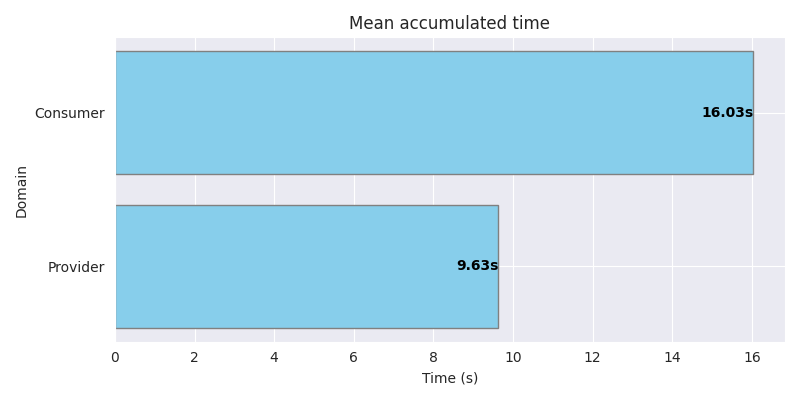
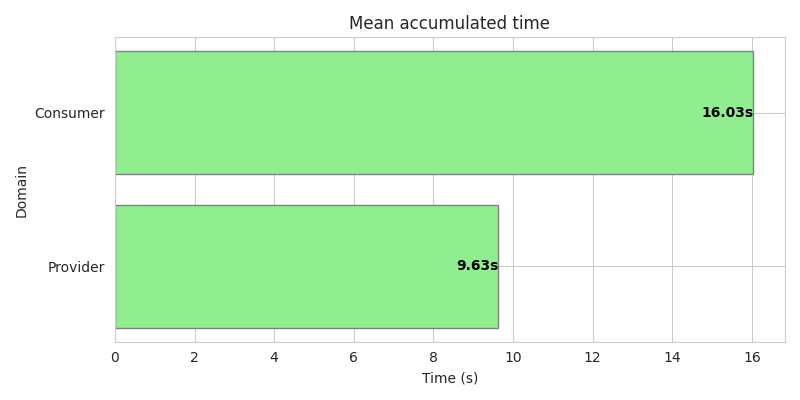
plots finished

diff --git a/experiments/ploting/plot_mean_std_v2.py b/experiments/ploting/plot_mean_std_v2.py
@@ -1,0 +1,77 @@
+import pandas as pd
+import numpy as np
+import os
+import matplotlib.pyplot as plt
+import seaborn as sns
+
+# Set the seaborn style for aesthetics
+sns.set_style("whitegrid")
+
+# Function to calculate durations and their mean, std for each step, including total duration
+def calculate_durations(directory):
+    steps_definitions = {
+        'Service Announced': ('service_announced', 'announce_received'),
+        'Bid Offered': ('bid_offer_sent', 'bid_offer_received'),
+        'Winner Choosen': ('winner_choosen', 'winner_received'),
+        'Service Deployment': ('deployment_start', 'deployment_finished'),
+        'Confirm Deployment': ('confirm_deployment_sent', 'confirm_deployment_received'),
+    }
+    times_data = {step: [] for step in steps_definitions}
+    times_data['Federation Completed'] = []  # Add total duration entry
+
+    # Process each file
+    for filename in os.listdir(directory):
+        filepath = os.path.join(directory, filename)
+        df = pd.read_csv(filepath)
+
+        total_start = df['timestamp'].iloc[0]  # Assume first timestamp is the start
+        total_end = df['timestamp'].iloc[-1]  # Assume last timestamp is the end
+        total_duration = total_end - total_start
+        times_data['Federation Completed'].append(total_duration)  # Add total duration
+
+        # Calculate durations for each step
+        for step, (start, end) in steps_definitions.items():
+            if start in df.step.values and end in df.step.values:
+                start_time = df.loc[df['step'] == start, 'timestamp'].values[0]
+                end_time = df.loc[df['step'] == end, 'timestamp'].values[0]
+                duration = end_time - start_time
+                times_data[step].append(duration)
+
+    # Calculate mean and std
+    stats_data = []
+    for step, durations in times_data.items():
+        mean_duration = np.mean(durations)
+        std_duration = np.std(durations)
+        stats_data.append({'Step': step, 'Mean Duration': mean_duration, 'Std Duration': std_duration})
+
+    return pd.DataFrame(stats_data)
+
+# Directory containing merged test results
+merged_dir = '../merged'
+
+# Calculate durations, mean, and std for each step
+times_df = calculate_durations(merged_dir)
+ordered_steps = ['Service Announced', 'Bid Offered', 'Winner Choosen', 'Service Deployment', 'Confirm Deployment', 'Federation Completed']
+times_df['Order'] = times_df['Step'].apply(lambda x: ordered_steps.index(x) if x in ordered_steps else len(ordered_steps))
+times_df = times_df.sort_values('Order', ascending=True)
+
+plt.figure(figsize=(12, 8))
+x_ticks = np.arange(len(ordered_steps))
+bar_colors = plt.cm.viridis(np.linspace(0.3, 0.9, len(ordered_steps)))  # Use a colormap for varied but harmonious colors
+
+for i, row in times_df.iterrows():
+    step = row['Step']
+    mean_duration = row['Mean Duration']
+    std_duration = row['Std Duration']
+    plt.bar(x_ticks[i], mean_duration, color=bar_colors[i], edgecolor='grey', yerr=std_duration, capsize=5, error_kw={'elinewidth':2, 'ecolor':'tomato'})
+    # Adjust text position to be above the standard deviation line and include error
+    text_position = mean_duration + std_duration + 0.05 * (mean_duration + std_duration)  # Slightly above the error bar
+    plt.text(x_ticks[i], text_position, f"{mean_duration:.2f}s ± {std_duration:.2f}", va='bottom', ha='center', color='black', fontweight='bold')
+
+plt.xticks(x_ticks, ordered_steps, rotation=45, ha='right')
+plt.ylabel('Time (s)')
+plt.xlabel('Phases')
+plt.title('Mean durations and standard deviation of each federation step')
+plt.tight_layout()
+plt.savefig('federation_events_mean_std_v2.png')
+plt.show()

diff --git a/experiments/ploting/plot_mean_std.py b/experiments/ploting/plot_mean_std.py
@@ -1,0 +1,68 @@
+import pandas as pd
+import numpy as np
+import os
+import matplotlib.pyplot as plt
+import seaborn as sns
+
+# Set the seaborn style for aesthetics
+sns.set_style("darkgrid")
+
+# Directory containing merged test results
+merged_dir = '../merged'
+times_data = []
+
+# Process each merged file
+for filename in os.listdir(merged_dir):
+    filepath = os.path.join(merged_dir, filename)
+    df = pd.read_csv(filepath)
+
+    # Capture start and end times for each step
+    steps_definitions = {
+        'Service Announced': ('service_announced', 'announce_received'),
+        'Bid Offered': ('bid_offer_sent', 'bid_offer_received'),
+        'Winner Choosen': ('winner_choosen', 'winner_received'),
+        'Service Deployment': ('deployment_start', 'deployment_finished'),
+        'Confirm Deployment': ('confirm_deployment_sent', 'confirm_deployment_received'),
+    }
+    for step, (start, end) in steps_definitions.items():
+        if start in df.step.values and end in df.step.values:
+            start_time = df.loc[df['step'] == start, 'timestamp'].values[0]
+            end_time = df.loc[df['step'] == end, 'timestamp'].values[0]
+            times_data.append({'Step': step, 'Start Time': start_time, 'End Time': end_time})
+
+# Convert to DataFrame
+times_df = pd.DataFrame(times_data)
+
+# Group by Step and calculate mean and standard deviation
+agg_funcs = {'Start Time': ['mean', 'std'], 'End Time': ['mean', 'std']}
+times_summary_df = times_df.groupby('Step').agg(agg_funcs).reset_index()
+
+# Flatten MultiIndex columns
+times_summary_df.columns = [' '.join(col).strip() for col in times_summary_df.columns.values]
+
+# Order steps
+ordered_steps = ['Service Announced', 'Bid Offered', 'Winner Choosen', 'Service Deployment', 'Confirm Deployment']
+times_summary_df['Order'] = times_summary_df['Step'].apply(lambda x: ordered_steps.index(x))
+times_summary_df = times_summary_df.sort_values('Order', ascending=True)
+
+# Plotting
+plt.figure(figsize=(12, 8))
+for i, step in enumerate(ordered_steps):
+    mean_start = times_summary_df.loc[times_summary_df['Step'] == step, 'Start Time mean'].values[0]
+    std_start = times_summary_df.loc[times_summary_df['Step'] == step, 'Start Time std'].values[0]
+    mean_end = times_summary_df.loc[times_summary_df['Step'] == step, 'End Time mean'].values[0]
+    std_end = times_summary_df.loc[times_summary_df['Step'] == step, 'End Time std'].values[0]
+    mean_duration = mean_end - mean_start
+    duration_std = np.sqrt(std_start**2 + std_end**2)  # Combine std deviations
+
+    plt.barh(i, mean_duration, xerr=duration_std, capsize=5, left=mean_start, color='skyblue', edgecolor='grey')
+    plt.text(mean_start + mean_duration / 2, i, f"{mean_duration:.2f}s ± {duration_std:.2f}", va='center', ha='center', color='black', fontweight='bold')
+
+plt.yticks(range(len(ordered_steps)), ordered_steps)
+plt.xlabel('Time (s)')
+plt.ylabel('Phases')
+plt.title('Mean start and end times of each federation step with Standard Deviation')
+plt.tight_layout()
+plt.gca().invert_yaxis()
+# plt.savefig('federation_events_mean_std.png')
+plt.show()

diff --git a/experiments/ploting/plot_mean.py b/experiments/ploting/plot_mean.py
@@ -1,0 +1,1 @@
+print("Hello world")

diff --git a/README.md b/README.md
@@ -99,7 +99,8 @@ Provider API documentation at: [http://10.5.50.71:8000/docs](http://10.5.50.71:8
 ```bash
 microk8s enable metallb
 
-<Enter each IP address range (e.g. 10.5.50.80-10.5.50.90)>
+<Enter IP address range>
+(e.g. 10.5.50.80-10.5.50.90)
 ```
 
 2. Verify the installation: Use the following commands to check if the MetalLB driver is running:
